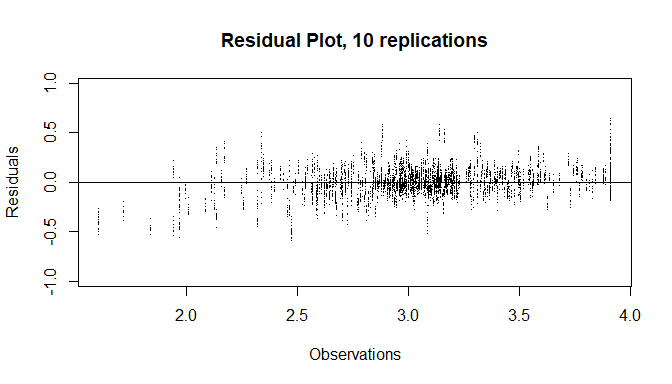
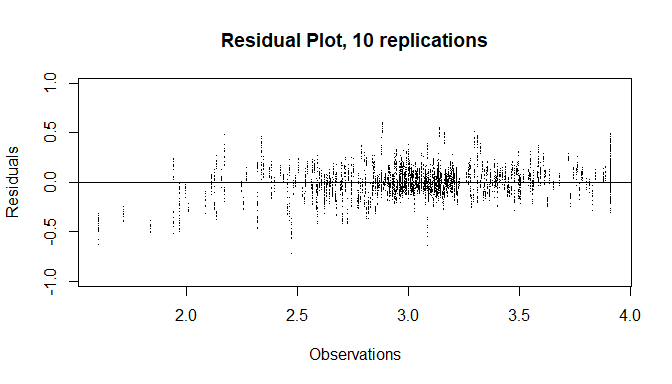
edit readme

Changed region(s): [[0.4688, 0.4062, 0.8125, 0.5625], [0.375, 0.4375, 0.4062, 0.4688]]

diff --git a/README.md b/README.md
@@ -210,7 +210,7 @@ Gaussian Hypergeometric, Confluent Hypergeometric, and Appell
 Hypergeometric distribution. Read the paper in `docs` for more details.
 
 ``` r
-a=12; b=0.4; z=25; s=-10; nu = 1.1; theta = 0.14
+a=5; b=1.2; z=37; s=-26; nu = 1; theta = 0.36
 u = seq(0, 1/nu, len=1e4)
 samp = rtCCH(1e6, a, b, z, s, nu, theta)
 hist(samp, nclass=100, probability = T,
@@ -238,7 +238,7 @@ sessioninfo::session_info()
 #>  collate  English_United States.utf8
 #>  ctype    English_United States.utf8
 #>  tz       Asia/Seoul
-#>  date     2022-12-30
+#>  date     2023-01-12
 #>  pandoc   2.19.2 @ C:/Program Files/RStudio/resources/app/bin/quarto/bin/tools/ (via rmarkdown)
 #> 
 #> ─ Packages ───────────────────────────────────────────────────────────────────
@@ -247,7 +247,7 @@ sessioninfo::session_info()
 #>  digest        0.6.31     2022-12-11 [2] CRAN (R 4.2.2)
 #>  evaluate      0.19       2022-12-13 [2] CRAN (R 4.2.2)
 #>  fastmap       1.1.0      2021-01-25 [2] CRAN (R 4.2.2)
-#>  gambms      * 0.0.0.9000 2022-12-29 [1] local
+#>  gambms      * 0.0.0.9000 2023-01-12 [1] local
 #>  glue          1.6.2      2022-02-24 [2] CRAN (R 4.2.2)
 #>  highr         0.10       2022-12-22 [2] CRAN (R 4.2.2)
 #>  htmltools     0.5.4      2022-12-07 [2] CRAN (R 4.2.2)
@@ -265,7 +265,7 @@ sessioninfo::session_info()
 #>  xfun          0.36       2022-12-21 [2] CRAN (R 4.2.2)
 #>  yaml          2.3.6      2022-10-18 [2] CRAN (R 4.2.2)
 #> 
-#>  [1] C:/Users/USER/AppData/Local/Temp/RtmpwLT6F4/temp_libpath22a066392430
+#>  [1] C:/Users/USER/AppData/Local/Temp/RtmpAJisLh/temp_libpath4694639b5885
 #>  [2] C:/Users/USER/AppData/Local/R/win-library/4.2
 #>  [3] C:/Program Files/R/R-4.2.2/library
 #> 
